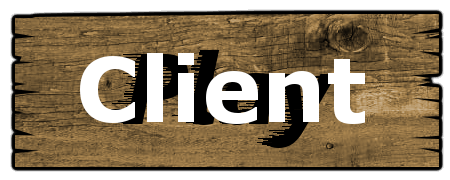
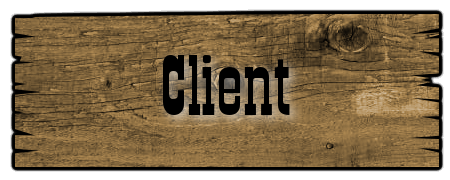
Fixed menus and added missing resources, also added missing overlay for bomb detonation.

Changed region(s): [[0.1556, 0.2778, 0.8089, 0.8333]]

diff --git a/game/Menu.cpp b/game/Menu.cpp
@@ -21,6 +21,8 @@ Menu::Menu(){
 
 	_done = false;
 
+	_map = 0;
+
 	_page = 0;
 
 	_net = 0;//0 no, 1 server, 2 client
@@ -39,15 +41,11 @@ void Menu::setupDisplay(){
 
 	//title
 	p=-1;
-	ptrArr[++p] = &_logo;		_logo.init(0.5f,0.25f,0.75f,0.4f,true);
-	ptrArr[++p] = &_play;		_play.init(0.5f,0.5f,0.3f,0.1f,true);
-
+	ptrArr[++p] = &_logo;			_logo.init(0.5f,0.25f,0.75f,0.4f,true);
+	ptrArr[++p] = &_play;			_play.init(0.5f,0.5f,0.3f,0.1f,true);
 	ptrArr[++p] = &_multiplayer;	_multiplayer.init(0.5f,0.6f,0.3f,0.1f,true);
-	//ptrArr[++p] = &_server;		_server.init(0.35f,0.6f,0.3f,0.1f,true);
-	//ptrArr[++p] = &_client;		_client.init(0.65f,0.6f,0.3f,0.1f,true);
-
-	ptrArr[++p] = &_tutorial;	_tutorial.init(0.5f,0.7f,0.3f,0.1f,true);
-	ptrArr[++p] = &_credits;	_credits.init(0.5f,0.8f,0.3f,0.1f,true);
+	ptrArr[++p] = &_tutorial;		_tutorial.init(0.5f,0.7f,0.3f,0.1f,true);
+	ptrArr[++p] = &_credits;		_credits.init(0.5f,0.8f,0.3f,0.1f,true);
 
 	_display[MAIN_MENU].init(p+1,ptrArr);
 
@@ -58,9 +56,9 @@ void Menu::setupDisplay(){
 	ptrArr[++p] = &_stgThumb[2];
 	ptrArr[++p] = &_stgThumb[3];
 
-	ptrArr[++p] = new panel(2,2,0.25f,0.25f,ptrArr);	ptrArr[p]->init(0.5f,0.4f,0.7f,0.7f,true);
-	ptrArr[++p] = &_stgNext;							_stgNext.init(0.35f,0.8f,0.3f,0.1f,true);
-	ptrArr[++p] = &_stgPrev;							_stgPrev.init(0.65f,0.8f,0.3f,0.1f,true);
+	ptrArr[++p] = new panel(2,2,0.25f,0.25f,ptrArr);	ptrArr[p]->init(0.2f,0.05f,0.7f,0.7f);
+	ptrArr[++p] = &_stgNext;							_stgNext.init(0.35f,0.8f,0.13f,0.1f,true);
+	ptrArr[++p] = &_stgPrev;							_stgPrev.init(0.65f,0.8f,0.13f,0.1f,true);
 
 	_display[STAGE_MENU].init(3,ptrArr+4);
 
@@ -77,14 +75,16 @@ void Menu::setupDisplay(){
 	ptrArr[++p] = &_mpServer;						_mpServer.init(0.35f,0.1f,0.3f,0.1f,true);
 	ptrArr[++p] = &_mpClient;						_mpClient.init(0.65f,0.1f,0.3f,0.1f,true);
 
-	ptrArr[++p] = &_mpLeft;							_mpLeft.init(0.15f,0.25f,0.1f,0.1f,true);
-	ptrArr[++p] = &_mpIp;							_mpIp.init(0.5f,0.25f,0.5f,0.1f,true);
-	ptrArr[++p] = &_mpRight;						_mpRight.init(0.85f,0.25f,0.1f,0.1f,true);
+	ptrArr[++p] = &_mpLeft;							_mpLeft.init(0.12f,0.25f,0.13f,0.1f,true);
+	for(int i=0;i<4;++i){
+		ptrArr[++p] = &_mpIp[i];					_mpIp[i].init(0.25f+(float)i*0.125,0.2f,0.125f,0.1f);
+	}
+	ptrArr[++p] = &_mpRight;						_mpRight.init(0.88f,0.25f,0.13f,0.1f,true);
 
 	ptrArr[++p] = &_mpPool;							_mpPool.init(0.7f,0.6f,0.4f,0.45f,true);
 
-	ptrArr[++p] = &_mpNext;							_mpNext.init(0.35f,0.9f,0.3f,0.1f,true);
-	ptrArr[++p] = &_mpPrev;							_mpPrev.init(0.65f,0.9f,0.1f,0.1f,true);
+	ptrArr[++p] = &_mpNext;							_mpNext.init(0.35f,0.9f,0.13f,0.1f,true);
+	ptrArr[++p] = &_mpPrev;							_mpPrev.init(0.65f,0.9f,0.13f,0.1f,true);
 
 	_display[MULTIPLAYER_MENU].init(9,ptrArr+12);
 
@@ -106,6 +106,7 @@ void Menu::init(){
 	_itemTable[MAIN_MENU].push_back(&_tutorial);
 	_itemTable[MAIN_MENU].push_back(&_credits);
 
+	_itemTable[STAGE_MENU].push_back(&_stgSelect);
 	_itemTable[STAGE_MENU].push_back(&_stgThumb[0]);
 	_itemTable[STAGE_MENU].push_back(&_stgThumb[1]);
 	_itemTable[STAGE_MENU].push_back(&_stgThumb[2]);
@@ -116,7 +117,8 @@ void Menu::init(){
 	_itemTable[MULTIPLAYER_MENU].push_back(&_mpServer);
 	_itemTable[MULTIPLAYER_MENU].push_back(&_mpClient);
 	_itemTable[MULTIPLAYER_MENU].push_back(&_mpPool);
-	_itemTable[MULTIPLAYER_MENU].push_back(&_mpIp);
+	for(int i=0;i<4;++i)
+		_itemTable[MULTIPLAYER_MENU].push_back(&_mpIp[i]);
 	_itemTable[MULTIPLAYER_MENU].push_back(&_mpLeft);
 	_itemTable[MULTIPLAYER_MENU].push_back(&_mpRight);
 	for(int i=0;i<10;++i)
@@ -127,40 +129,38 @@ void Menu::init(){
 	_itemTable[TUTORIAL_MENU].push_back(&_next);
 	_itemTable[TUTORIAL_MENU].push_back(&_prev);
 	_itemTable[TUTORIAL_MENU].push_back(&_back);
-
-	//for(int i=0;i<10;++i)
-	//	_itemTable[MULTIPLAYER_MENU].push_back(&(_numpad._nums[i]));
-
+	
 	_logo._sprite.loadAnim(IMG_GFX::logo);
 
-	_play._sprite.loadAnim(IMG_UI::play);
-	_multiplayer._sprite.loadAnim(IMG_UI::server);
-	//_server._sprite.loadAnim(IMG_UI::server;
-	//_client._sprite.loadAnim(IMG_UI::client;
+	_play._sprite.loadAnim(IMG_UI::playlocal);
+	_multiplayer._sprite.loadAnim(IMG_UI::playlan);
 	_tutorial._sprite.loadAnim(IMG_UI::tutorial);
 	_credits._sprite.loadAnim(IMG_UI::credits);
 
-	_stgThumb[0]._sprite.loadAnim(IMG_UI::stgthumb0);
-	_stgThumb[1]._sprite.loadAnim(IMG_UI::stgthumb0);
-	_stgThumb[2]._sprite.loadAnim(IMG_UI::stgthumb0);
-	_stgThumb[3]._sprite.loadAnim(IMG_UI::stgthumb0);
-	_stgNext._sprite.loadAnim(IMG_UI::play);
-	_stgPrev._sprite.loadAnim(IMG_UI::exit);
+	_stgSelect._sprite.loadAnim(IMG_UI::stgselect);
+	_stgThumb[0]._sprite.loadAnim(IMG_UI::stgthumb[0]);
+	_stgThumb[1]._sprite.loadAnim(IMG_UI::stgthumb[1]);
+	_stgThumb[2]._sprite.loadAnim(IMG_UI::stgthumb[2]);
+	_stgThumb[3]._sprite.loadAnim(IMG_UI::stgthumb[3]);
+	_stgNext._sprite.loadAnim(IMG_UI::ok);
+	_stgPrev._sprite.loadAnim(IMG_UI::back);
 
 	_mpServer._sprite.loadAnim(IMG_UI::server);
 	_mpClient._sprite.loadAnim(IMG_UI::client);
 	_mpPool._sprite.loadAnim(IMG_UI::move);
-	_mpIp._sprite.loadAnim(IMG_UI::move);
-	_mpLeft._sprite.loadAnim(IMG_UI::move);
-	_mpRight._sprite.loadAnim(IMG_UI::move);
+	_mpSelect._sprite.loadAnim(IMG_UI::boxselect);
+	for(int i=0;i<4;++i)
+		_mpIp[i]._sprite.loadAnim(IMG_UI::boxempty);
+	_mpLeft._sprite.loadAnim(IMG_UI::prev);
+	_mpRight._sprite.loadAnim(IMG_UI::next);
 	for(int i=0;i<10;++i)
 		_mpNumpad[i]._sprite.loadAnim(IMG_UI::num[i]);
-	_mpNext._sprite.loadAnim(IMG_UI::play);
-	_mpPrev._sprite.loadAnim(IMG_UI::exit);
+	_mpNext._sprite.loadAnim(IMG_UI::ok);
+	_mpPrev._sprite.loadAnim(IMG_UI::back);
 
-	_next._sprite.loadAnim(IMG_UI::move);
-	_prev._sprite.loadAnim(IMG_UI::move);
-	_back._sprite.loadAnim(IMG_UI::exit);
+	_next._sprite.loadAnim(IMG_UI::next);
+	_prev._sprite.loadAnim(IMG_UI::prev);
+	_back._sprite.loadAnim(IMG_UI::ok);
 
 	_info[0]._sprite.loadAnim(IMG_TUT::objectives);
 	_info[1]._sprite.loadAnim(IMG_TUT::controls);
@@ -317,6 +317,12 @@ void Menu::udpdate(int mx, int my){
 			}
 			_net = 0;
 		}
+		for(int i=0;i<4;++i){
+			if(_stgThumb[i].isPress()){
+				_map = i;
+				break;
+			}
+		}
 	}else if(_state == TUTORIAL_MENU){
 		if(_next.isPress()){
 			++_page;
@@ -334,11 +340,16 @@ void Menu::render(renderer& ren, font& fon){
 		ren.renderSprite(ptr->getSprite(),ptr->_rect);
 	}
 	if(_state == MULTIPLAYER_MENU){
-		char buf[20];
-		sprintf_s(buf,"%3d.%3d.%3d.%3d",(_mpIpAddr>>0)&0xFF,(_mpIpAddr>>8)&0xFF,(_mpIpAddr>>16)&0xFF,(_mpIpAddr>>24)&0xFF);
-		ren.renderText(buf,fon,_mpIp._rect.x,_mpIp._rect.y);
-		int xx = _mpIp._rect.x+(int)((float)_mpLeft._rect.w*(4.0f/3.0f))*_mpIpPos;
-		ren.renderSprite(_mpLeft.getSprite(),xx,_mpIp._rect.y,_mpLeft._rect.w,_mpLeft._rect.h);
+		char buf[4];
+		for(int i=0;i<4;++i){
+			sprintf_s(buf,"%3d",(_mpIpAddr>>(i*8))&0xFF);
+			int xx = _mpIp[i]._rect.x + (_mpIp[i]._rect.w-(16*3))/2;
+			int yy = _mpIp[i]._rect.y + (_mpIp[i]._rect.h-(32))/2;
+			ren.renderText(buf,fon,xx,yy);
+		}
+		ren.renderSprite(_mpSelect.getSprite(),_mpIp[_mpIpPos]._rect);
+	}else if(_state == STAGE_MENU){
+		ren.renderSprite(_stgSelect.getSprite(),_stgThumb[_map]._rect);
 	}else if(_state == TUTORIAL_MENU){
 		ren.renderSprite(_prev.getSprite(),_prev._rect);
 		ren.renderSprite(_next.getSprite(),_next._rect);

diff --git a/game/Props.cpp b/game/Props.cpp
@@ -76,16 +76,25 @@ animation UI_ovelay;
 int IMG_INVALID = 0;
 int IMG_TRANSPARENT = 1;
 
+
 int IMG_UI::endturn = 0;
 int IMG_UI::move = 0;
-int IMG_UI::play = 0;
-int IMG_UI::server = 0;
-int IMG_UI::client = 0;
+int IMG_UI::playlocal = 0;
+int IMG_UI::playlan = 0;
 int IMG_UI::tutorial = 0;
 int IMG_UI::credits = 0;
+int IMG_UI::server = 0;
+int IMG_UI::client = 0;
+int IMG_UI::ok = 0;
+int IMG_UI::back = 0;
+int IMG_UI::prev = 0;
+int IMG_UI::next = 0;
 int IMG_UI::exit = 0;
 int IMG_UI::num[10] = {0,0,0,0,0,0,0,0,0,0};
-int IMG_UI::stgthumb0 = 0;
+int IMG_UI::boxempty = 0;
+int IMG_UI::boxselect = 0;
+int IMG_UI::stgselect = 0;
+int IMG_UI::stgthumb[4] = {0,0,0,0};
 int IMG_UI::heat[16] = {0,0,0,0,0,0,0,0,0,0,0,0,0,0,0,0};
 
 int IMG_TUT::objectives = 0;
@@ -120,6 +129,7 @@ int IMG_OL::rope = 0;
 int IMG_OL::launch = 0;
 int IMG_OL::walk = 0;
 int IMG_OL::marker = 0;
+int IMG_OL::detonate = 0;
 
 
 int IMG_ACT::bomb = 0;
@@ -200,11 +210,18 @@ void intLoadImages(resources& res){
 	IMG_GFX::logo = pushAnimation(res.loadImage("resources/image/GFX_logo.png"));
 	IMG_GFX::wood = pushAnimation(res.loadImage("resources/image/BGN_title.png"));
 
-	IMG_UI::play = pushAnimation(res.loadImage("resources/image/UI_play.png"));
-	IMG_UI::server = pushAnimation(res.loadImage("resources/image/UI_server.png"));
-	IMG_UI::client = pushAnimation(res.loadImage("resources/image/UI_client.png"));
+	IMG_UI::endturn = pushAnimation(res.loadImage("resources/image/UI_endturn.png"));
+	IMG_UI::move = pushAnimation(res.loadImage("resources/image/UI_move.png"));
+	IMG_UI::playlocal = pushAnimation(res.loadImage("resources/image/UI_local.png"));
+	IMG_UI::playlan = pushAnimation(res.loadImage("resources/image/UI_lan.png"));
 	IMG_UI::tutorial = pushAnimation(res.loadImage("resources/image/UI_tutorial.png"));
 	IMG_UI::credits = pushAnimation(res.loadImage("resources/image/UI_credits.png"));
+	IMG_UI::server = pushAnimation(res.loadImage("resources/image/UI_server.png"));
+	IMG_UI::client = pushAnimation(res.loadImage("resources/image/UI_client.png"));
+	IMG_UI::ok = pushAnimation(res.loadImage("resources/image/UI_ok.png"));
+	IMG_UI::back = pushAnimation(res.loadImage("resources/image/UI_back.png"));
+	IMG_UI::prev = pushAnimation(res.loadImage("resources/image/UI_prev.png"));
+	IMG_UI::next = pushAnimation(res.loadImage("resources/image/UI_next.png"));
 	IMG_UI::num[0] = pushAnimation(res.loadImage("resources/image/UI_num_0.png"));
 	IMG_UI::num[1] = pushAnimation(res.loadImage("resources/image/UI_num_1.png"));
 	IMG_UI::num[2] = pushAnimation(res.loadImage("resources/image/UI_num_2.png"));
@@ -215,7 +232,13 @@ void intLoadImages(resources& res){
 	IMG_UI::num[7] = pushAnimation(res.loadImage("resources/image/UI_num_7.png"));
 	IMG_UI::num[8] = pushAnimation(res.loadImage("resources/image/UI_num_8.png"));
 	IMG_UI::num[9] = pushAnimation(res.loadImage("resources/image/UI_num_9.png"));
-	IMG_UI::stgthumb0 = pushAnimation(res.loadImage("resources/image/UI_STG_thumb_0.png"));
+	IMG_UI::boxempty = pushAnimation(res.loadImage("resources/image/UI_small_blank.png"));
+	IMG_UI::boxselect = pushAnimation(res.loadImage("resources/image/UI_small_select.png"));
+	IMG_UI::stgselect = pushAnimation(res.loadImage("resources/image/UI_STG_select.png"));
+	IMG_UI::stgthumb[0] = pushAnimation(res.loadImage("resources/image/UI_STG_thumb_0.png"));
+	IMG_UI::stgthumb[1] = pushAnimation(res.loadImage("resources/image/UI_STG_thumb_no.png"));
+	IMG_UI::stgthumb[2] = pushAnimation(res.loadImage("resources/image/UI_STG_thumb_no.png"));
+	IMG_UI::stgthumb[3] = pushAnimation(res.loadImage("resources/image/UI_STG_thumb_no.png"));
 	IMG_UI::heat[0] = pushAnimation(res.loadImage("resources/image/UI_heat_0.png"));
 	IMG_UI::heat[1] = pushAnimation(res.loadImage("resources/image/UI_heat_1.png"));
 	IMG_UI::heat[2] = pushAnimation(res.loadImage("resources/image/UI_heat_2.png"));
@@ -238,8 +261,6 @@ void intLoadImages(resources& res){
 	IMG_TUT::objectives = pushAnimation(res.loadImage("resources/image/TUT_objectives.png"));
 	IMG_TUT::rules = pushAnimation(res.loadImage("resources/image/TUT_rules.png"));
 
-	IMG_UI::move = pushAnimation(res.loadImage("resources/image/UI_move.png"));
-	IMG_UI::endturn = pushAnimation(res.loadImage("resources/image/UI_endturn.png"));
 
 	IMG_OL::bomb = pushAnimation(res.loadImage("resources/image/OL_bomb.png"));
 	IMG_OL::barrel = pushAnimation(res.loadImage("resources/image/OL_barrel.png"));
@@ -250,6 +271,7 @@ void intLoadImages(resources& res){
 	IMG_OL::launch = pushAnimation(res.loadImage("resources/image/OL_throw.png"));
 	IMG_OL::walk = pushAnimation(res.loadImage("resources/image/OL_walk.png"));
 	IMG_OL::marker = pushAnimation(res.loadImage("resources/image/OL_marker.png"));
+	IMG_OL::detonate = pushAnimation(res.loadImage("resources/image/OL_detonate.png"));
 
 	IMG_ACT::barrel = pushAnimation(res.loadImage("resources/image/GFX_ACT_barrel.png"));
 	IMG_ACT::bomb = pushAnimation(res.loadImage("resources/image/GFX_ACT_bomb.png"));
@@ -278,7 +300,6 @@ void intLoadImages(resources& res){
 	IMG_GFX::char_white = pushAnimation(res.loadImage("resources/image/UI_char_white.png"));
 	IMG_GFX::select = pushAnimation(res.loadImage("resources/image/select.png"));
 
-	IMG_UI::exit = pushAnimation(res.loadImage("resources/image/exit.png"));
 
 }
 void intLoadAnimations(resources& res){
@@ -392,6 +413,7 @@ void intLoadAnimations(resources& res){
 	loadAnimation(IMG_OL::launch,UI_ovelay,ANIM_LAUNCH,res);
 	loadAnimation(IMG_OL::barrel,UI_ovelay,ANIM_BARREL,res);
 	loadAnimation(IMG_OL::rope,UI_ovelay,ANIM_STUN,res);
+	loadAnimation(IMG_OL::detonate,UI_ovelay,ANIM_DETOANTE,res);
 
 
 }

diff --git a/game/Stage.cpp b/game/Stage.cpp
@@ -233,10 +233,10 @@ void Stage::renderActors(renderer& renderer){
 			}else{
 				renderer.renderActorInMapCenter(*ptr,_camera);
 			}
-			if(ptr->getClass() == ACTOR_BOMB){
+			/*if(ptr->getClass() == ACTOR_BOMB){
 				if(ptr->getBomb()->getTurn() >= 0)
 					renderer.renderTextInMapCenter(i_to_str(ptr->getBomb()->getTurn()).c_str(),_camera,*_font,ptr->getX(),ptr->getY());
-			}
+			}*/
 		}
 	}
 
@@ -275,6 +275,15 @@ void Stage::renderActors(renderer& renderer){
 	}
 
 	renderer.renderMap(_tileMap, _camera, true);
+	for(int i=0;i<_bombs.size();++i){
+		bomb* bmb = _bombs[i];
+		if(!bmb->isActive())
+			continue;
+		if(!bmb->getTurn() == -1)
+			continue;
+
+		renderer.renderTextInMapCenter(i_to_str(bmb->getTurn()).c_str(),_camera,*_font,bmb->getX(),bmb->getY());
+	}
 }
 
 void Stage::clear(){

diff --git a/game/Props.h b/game/Props.h
@@ -85,14 +85,22 @@ extern int IMG_TRANSPARENT;
 struct IMG_UI{
 	static int endturn;
 	static int move;
-	static int play;
-	static int server;
-	static int client;
+	static int playlocal;
+	static int playlan;
 	static int tutorial;
 	static int credits;
+	static int server;
+	static int client;
+	static int ok;
+	static int back;
+	static int prev;
+	static int next;
 	static int exit;
 	static int num[10];
-	static int stgthumb0;
+	static int boxempty;
+	static int boxselect;
+	static int stgselect;
+	static int stgthumb[4];
 	static int heat[16];
 
 	IMG_UI(){
@@ -142,6 +150,7 @@ struct IMG_OL{
 	static int launch;
 	static int walk;
 	static int marker;
+	static int detonate;
 
 	IMG_OL(){
 		memset(this,0,sizeof(IMG_OL));

diff --git a/game/store.cpp b/game/store.cpp
@@ -62,8 +62,8 @@ void store::setGUI(int width, int height){
 	int xv = width<height?0:spa*2+ww;
 	int yv = width<height?spa*2+hh:0;
 
-	_exit._sprite.loadAnim(IMG_UI::exit);
-	_exit.setGUI(width-aa-spa,height-aa-spa,aa,aa);
+	_exit._sprite.loadAnim(IMG_UI::ok);
+	_exit.setGUI(width-aa-spa-((1.3f*(float)aa)-aa),height-aa-spa,1.3f*(float)aa,aa);
 
 	for(int i=0;i<5;++i){
 		//_player[i].image_id = "NULL";

diff --git a/game/Menu.h b/game/Menu.h
@@ -64,6 +64,8 @@ public:
 	button _exit;
 
 	//stage select
+	int _map;
+	button _stgSelect;
 	button _stgThumb[4];
 	button _stgNext;
 	button _stgPrev;
@@ -79,7 +81,8 @@ public:
 	//multiplayer
 	button _mpServer;
 	button _mpClient;
-	button _mpIp;
+	button _mpSelect;
+	button _mpIp[4];
 	button _mpLeft;
 	button _mpRight;
 	button _mpPool;
